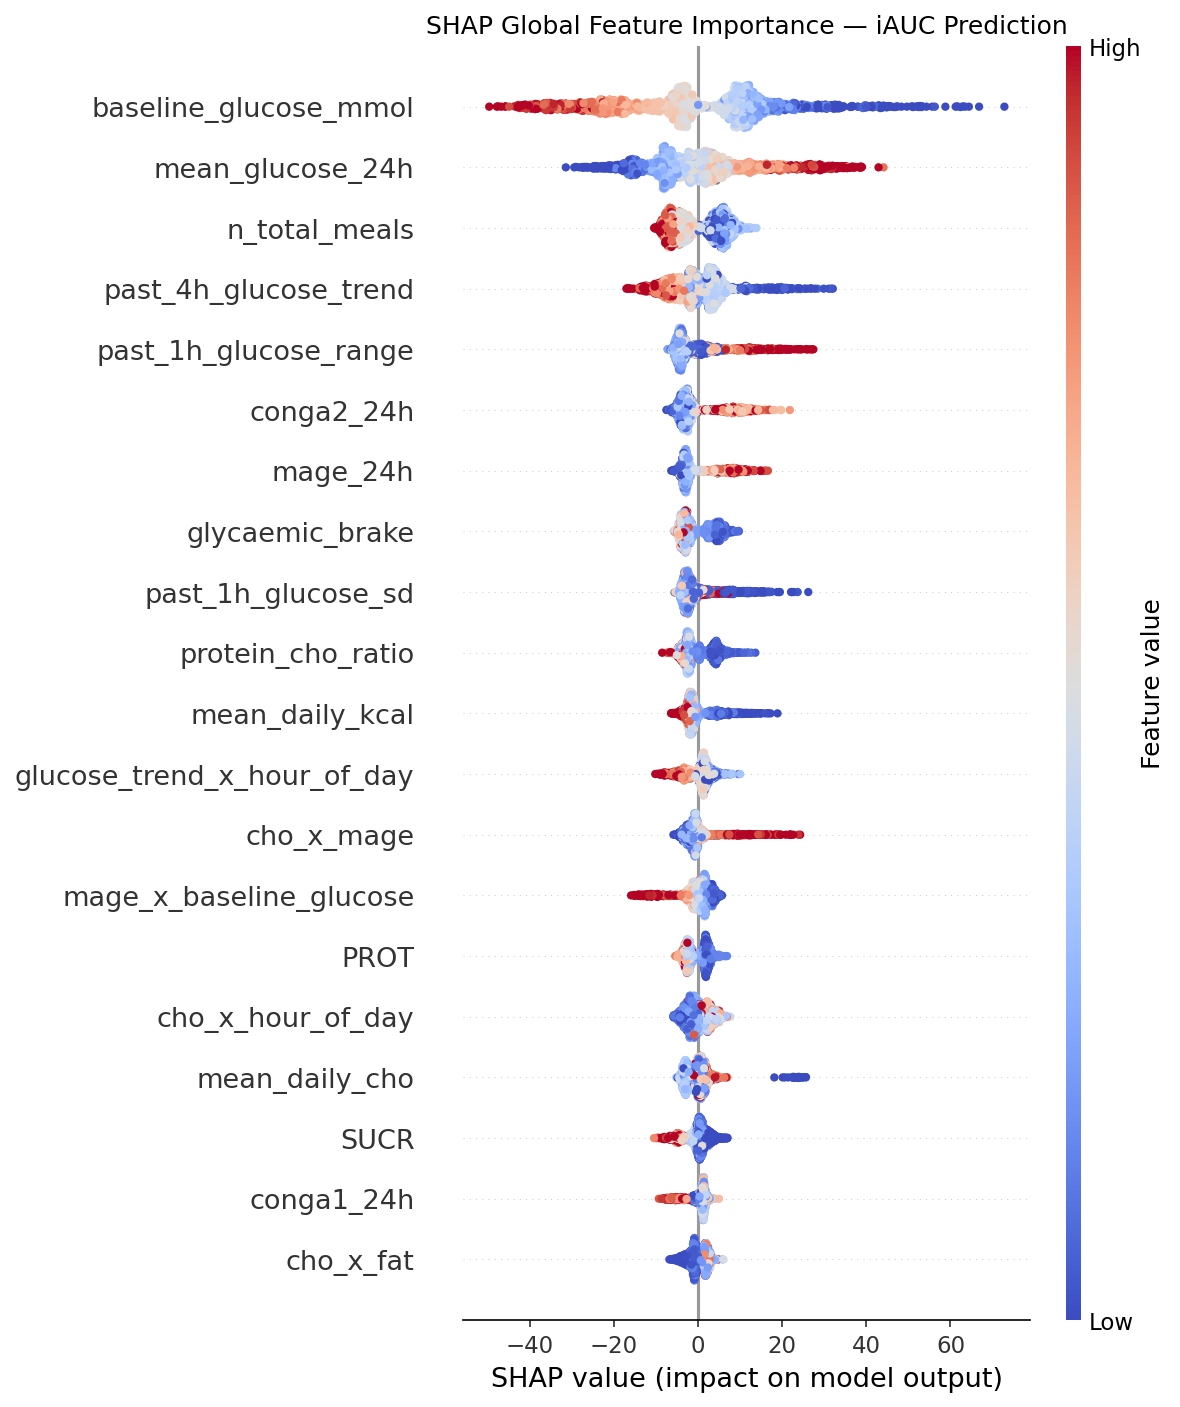
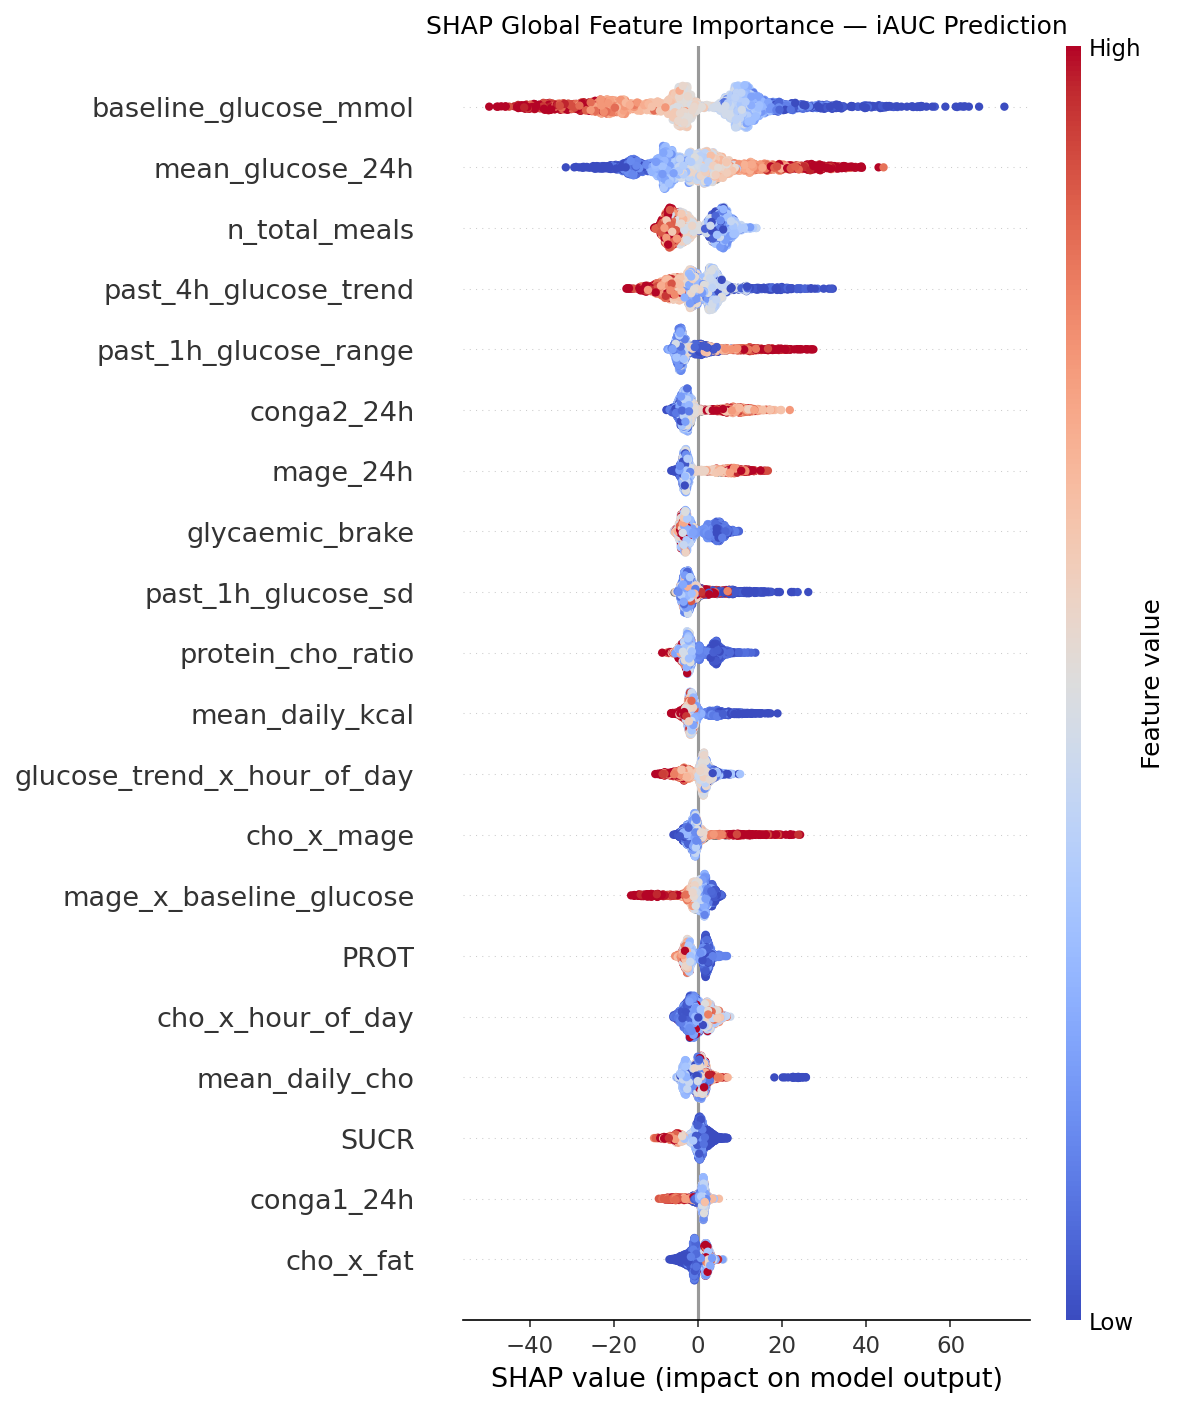
SHAP figure table labelling

Changed region(s): [[0.4271, 0.0611, 0.7017, 0.9168]]

diff --git a/shap_analysis.py b/shap_analysis.py
@@ -430,17 +430,14 @@ dc_feats = cfg.DC_RAW + cfg.DC_RATIOS
 model_dc = xgb.XGBRegressor(**train_params)
 model_dc.fit(X[dc_feats], y)
 
-from sklearn.metrics import r2_score
-dc_r2 = r2_score(y, model_dc.predict(X[dc_feats]))
-
 explainer_dc = shap.TreeExplainer(model_dc)
 shap_vals_dc = explainer_dc.shap_values(X[dc_feats])
 
-fig, ax = plt.subplots(1, 1, figsize=(9, 7))
+fig, ax = plt.subplots(1, 1, figsize=(9, 12))
 
 plt.sca(ax)
-shap.summary_plot(shap_vals_dc, X[dc_feats], max_display=10, show=False, cmap=SHAP_CMAP)
-ax.set_title(f"SHAP — Dc-only model (R² ≈ {dc_r2:.3f})", fontsize=11)
+shap.summary_plot(shap_vals_dc, X[dc_feats], max_display=25, show=False, cmap=SHAP_CMAP)
+ax.set_title("SHAP — Dc-only model", fontsize=11)
 
 plt.tight_layout()
 p = SHAP_PLOT_DIR / "07_dc_only_shap.png"
